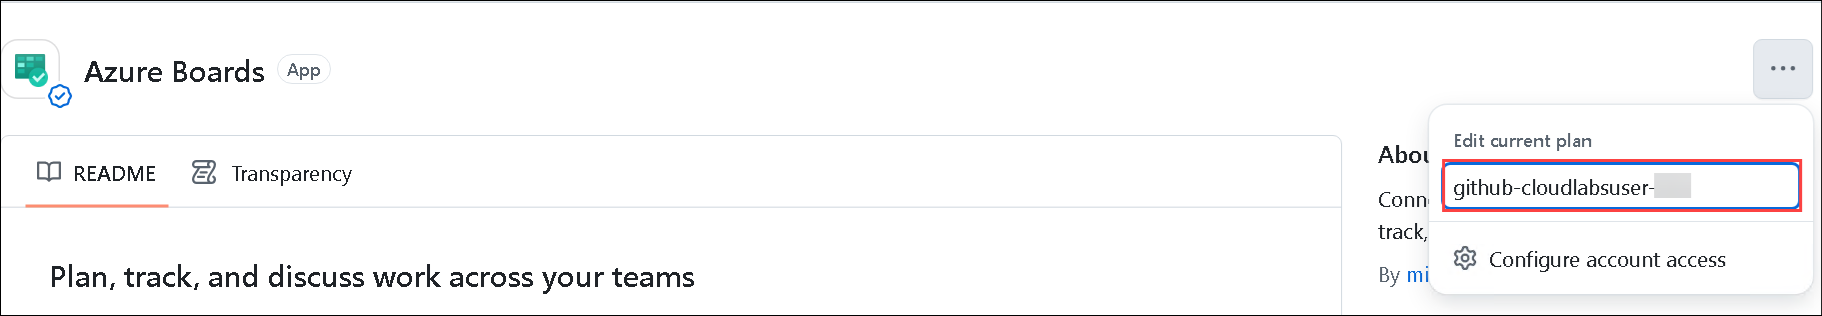
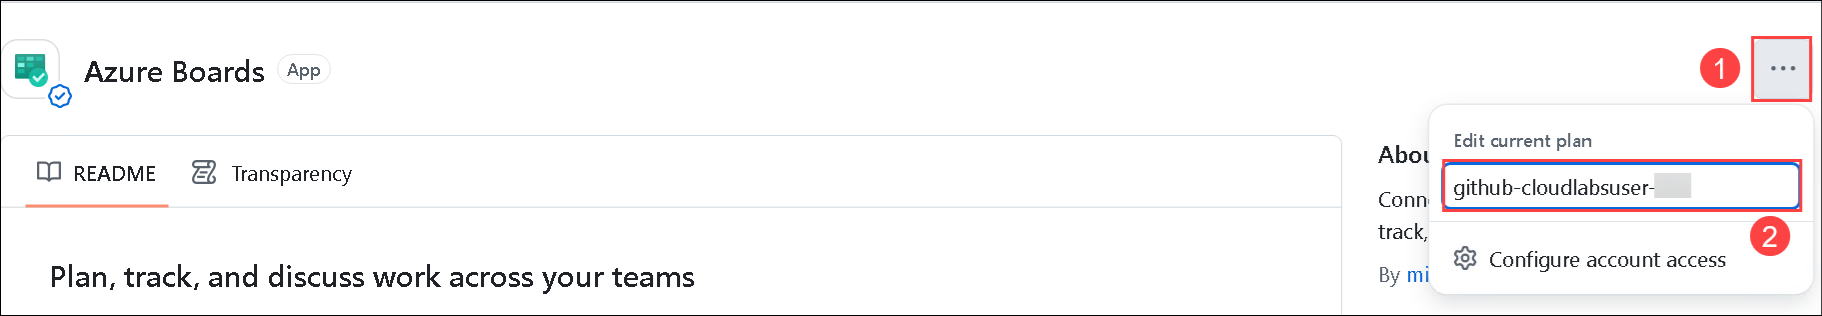
finalupdates

Changed region(s): [[0.9221, 0.1139, 1.0, 0.3418], [0.9528, 0.6835, 0.9835, 0.8259]]

diff --git a/Hands-on lab/06-monitoring-and-load-testing.md b/Hands-on lab/06-monitoring-and-load-testing.md
@@ -14,6 +14,8 @@ In this lab, you will perform:
 
 ## Task 1: Monitoring using Application Insights
 
+This task focuses on using Azure Application Insights to monitor the health and performance of the Contoso Traders application. You will review various monitoring metrics over a chosen time range.
+
 1. In the Azure Portal, navigate to **contoso-traders-<inject key="Deploymentid" enableCopy="false" />** **(1)** resource group and select the **Application Insights** resource with the name **contoso-traders-ai<inject key="Deploymentid" />** **(2)**.
 
    ![](media/E4T1S1.png)
@@ -75,6 +77,14 @@ In this task, you'll create an Azure Load Testing instance and run a test using 
    ![](media/E4T2S8-1.png)
 
    **Note**: In case the test fails due to `The test was stopped due to a high error rate. Check your script and try again. In case the issue persists, raise a ticket with a support error`. This is expected as sometimes the load on the application exceeds the defined throughput.
+
+>**Congratulations** on completing the Task! Now, it's time to validate it. Here are the steps:
+ 
+> - Hit the Validate button for the corresponding task. If you receive a success message, you have successfully validated the lab. 
+> - If not, carefully read the error message and retry the step, following the instructions in the lab guide.
+> - If you need any assistance, please contact us at cloudlabs-support@spektrasystems.com.
+
+   <validation step="d553ecad-c385-4148-ba65-fbce5cb985ad" />
 
 ## Task 3: Explore Chaos Studio
 
@@ -182,6 +192,14 @@ In this task, you will add **Targets** and create an **Experiment** on **Azure C
 1. On the **Details** preview page, review the **Completed Status** of the run to verify its outcome and view all relevant details.
 
    ![](media/E4T3S24.png)
+
+>**Congratulations** on completing the Task! Now, it's time to validate it. Here are the steps:
+ 
+> - Hit the Validate button for the corresponding task. If you receive a success message, you have successfully validated the lab. 
+> - If not, carefully read the error message and retry the step, following the instructions in the lab guide.
+> - If you need any assistance, please contact us at cloudlabs-support@spektrasystems.com.
+
+   <validation step="7042c8dd-d5f9-4300-92a9-6d1e0ae9a1c4" />
    
 ## Summary
 

diff --git a/Hands-on lab/04-azure-boards.md b/Hands-on lab/04-azure-boards.md
@@ -32,7 +32,7 @@ In this task, you will connect your Azure DevOps project's board to your GitHub 
 
    > **Note:** If the **Install it for free** button is greyed out  with the message **You’ve already purchased this on all of your GitHub accounts**, this indicates Azure Boards integration is already used in your account. Follow the steps below, and please proceed from step number 4.
 
-     - Scroll to the top of the Azure Boards Marketplace page and click on the **ellipsis (...)** and select the github user.
+     - Scroll to the top of the Azure Boards Marketplace page and click on the **ellipsis (...) (1)** and select the **github user (2)**.
 
          ![](media/E2T1S3.png)
 
@@ -217,6 +217,14 @@ In this task, you'll set up an Azure test plan and perform manual testing for th
 1. You'll be able to visualize the chart. You can explore more by making changes in the chart and by running multiple test cycles.
 
    ![](media/E2T3S17.png)
+
+>**Congratulations** on completing the Task! Now, it's time to validate it. Here are the steps:
+ 
+> - Hit the Validate button for the corresponding task. If you receive a success message, you have successfully validated the lab. 
+> - If not, carefully read the error message and retry the step, following the instructions in the lab guide.
+> - If you need any assistance, please contact us at cloudlabs-support@spektrasystems.com.
+
+  <validation step="dd7cf1fd-17af-495f-affa-9affe5b1e9de" />
 
 ## Summary
 

diff --git a/Hands-on lab/02-continuous-integration.md b/Hands-on lab/02-continuous-integration.md
@@ -251,6 +251,8 @@ In this task, you will create an account in [GitHub](https://github.com) and use
 
 1. In the terminal, click on the **drop-down** button and select **PowerShell** to open a fresh PowerShell terminal tab.
 
+   ![](media/E1T3S9.png)
+
 1. In the Visual Studio Code, run the below commands in the terminal to set your **username** and **email**, which Git uses for commits. **Make sure to replace the GitHub account email and username.** 
 
    ```pwsh
@@ -432,6 +434,14 @@ In this task, you will build automation in GitHub for updating and republishing 
     ![](media/E1T4S22.png)
 
     ![](media/E1T4S22-1.png)
+
+>**Congratulations** on completing the Task! Now, it's time to validate it. Here are the steps:
+ > - Hit the Validate button for the corresponding task. If you receive a success message, you have successfully validated the lab.
+ > - If not, carefully read the error message and retry the step, following the instructions in the lab guide.
+ > - If you need any assistance, please contact us at labs-support@spektrasystems.com.
+ > - **Note:** Upon clicking the **Validate** button for this exercise, you'll receive a prompt to input your GitHub User Name. Provide your **GitHub User Name** which looks like **github-cloudlabsuser-xxxx**.
+
+   <validation step="4f20a33d-35ef-40a7-b9df-f4072265acaa" />
 
 ## Task 5: Editing the GitHub Workflow File using Codespace
 
